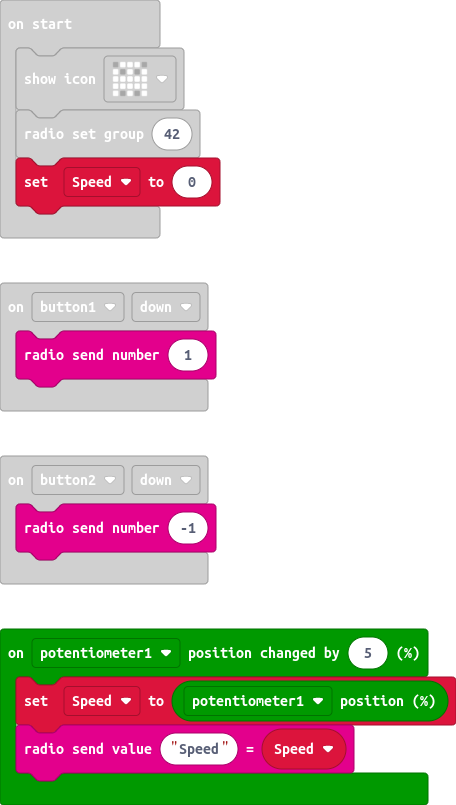
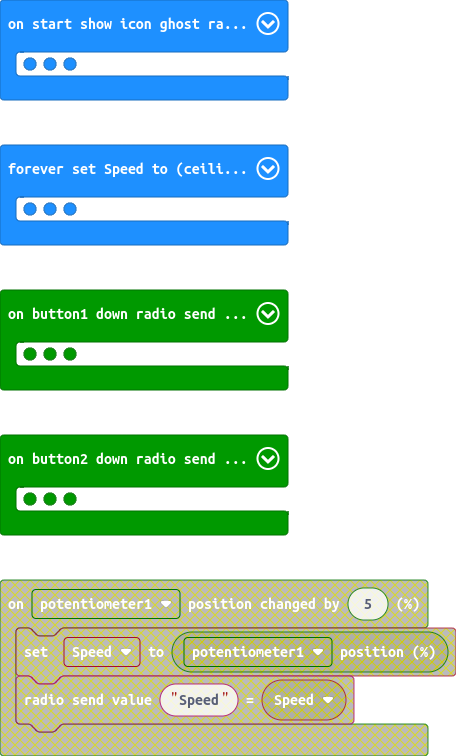
add comments

diff --git a/main.ts b/main.ts
@@ -1,17 +1,36 @@
+// 
+// If Jacdac Button 1 is pressed down send 1 to receiver
+// 
+// This value determines direction of Motor
 modules.button1.onEvent(jacdac.ButtonEvent.Down, function () {
     radio.sendNumber(1)
 })
-modules.potentiometer1.onPositionChangedBy(5, function () {
-    Speed = modules.potentiometer1.position()
-    radio.sendValue("Speed", Speed)
-})
+// 
+// If Jacdac Button 2 is pressed down send -1 to receiver
+// 
+// This value determines direction of Motor
 modules.button2.onEvent(jacdac.ButtonEvent.Down, function () {
     radio.sendNumber(-1)
 })
-let Speed = 0
+// Show Icon on Micro:Bit to show system is ready
+// 
+// Set radio Group to match that of receiver
+// 
+// Set Variavle "Speed" to 0 - this is used to control the speed of the motor connected to the receiver
+// 
+// 
 basic.showIcon(IconNames.Ghost)
 radio.setGroup(42)
-Speed = 0
+let Speed = 0
+// Set Variable "Speed" to value of device used to control speed of motor.
+// 
+// Send this value via radio with a name of "Speed" 
+// 
+// In this case we are using a Jacdac Slide Potentiometer 
+// 
+// Other devices that give an analog output ( rotary Potentiometer etc ) 
+// could also be used
 basic.forever(function () {
-	
+    Speed = Math.ceil(modules.potentiometer1.position())
+    radio.sendValue("Speed", Speed)
 })
